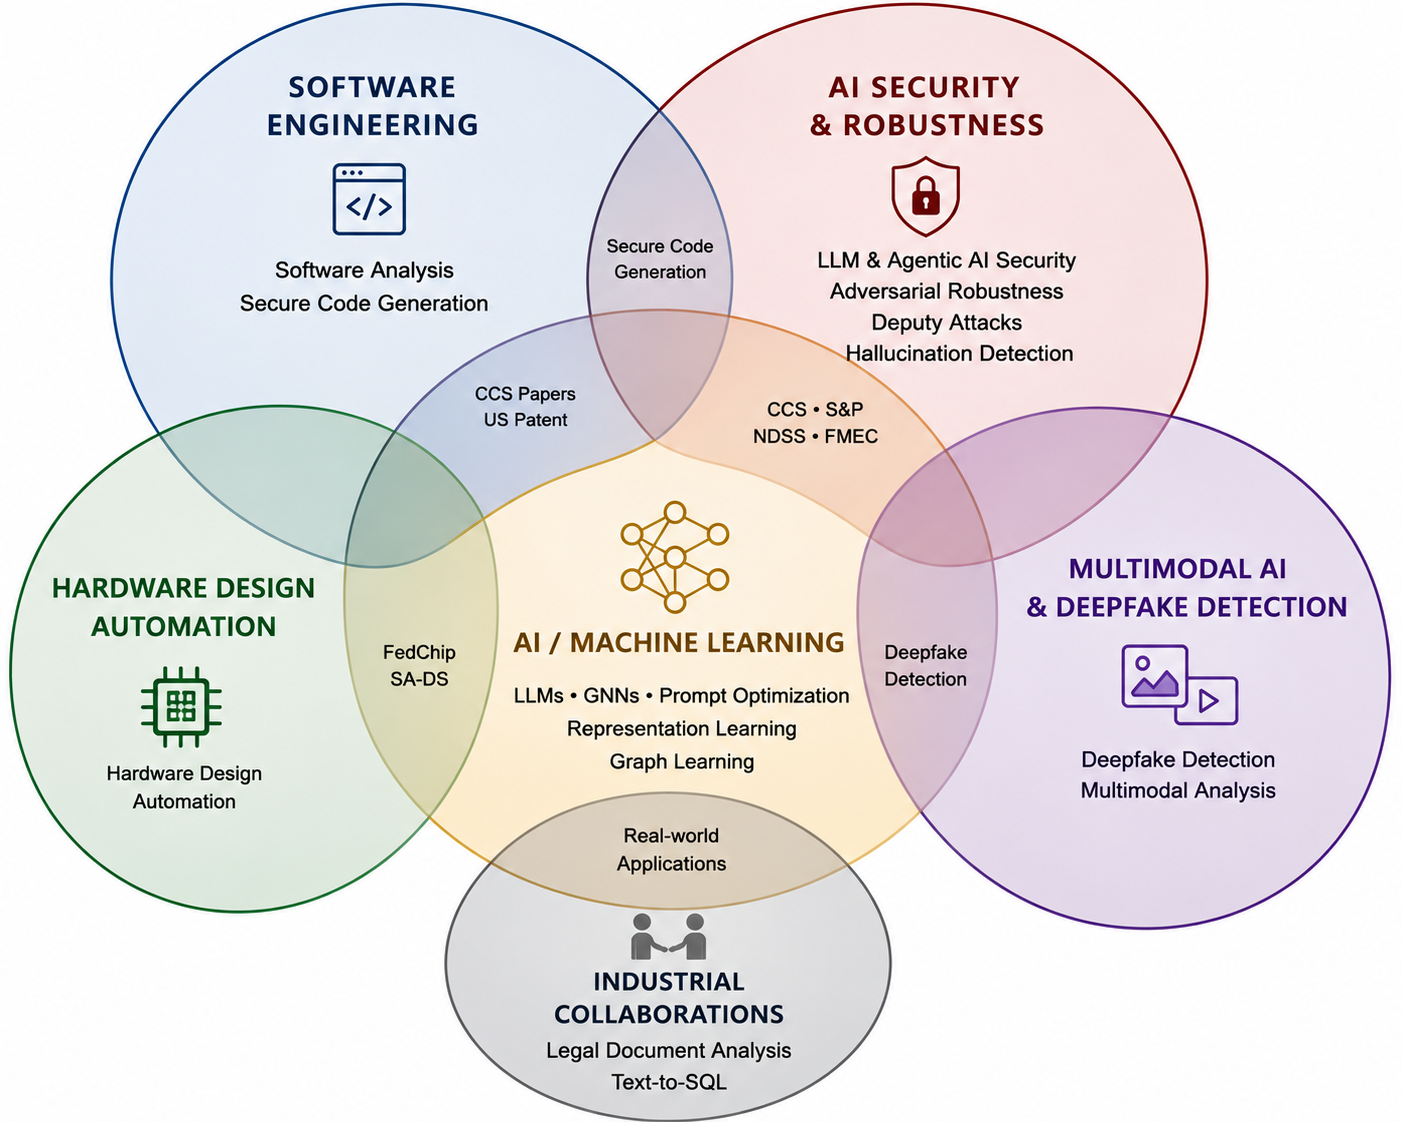
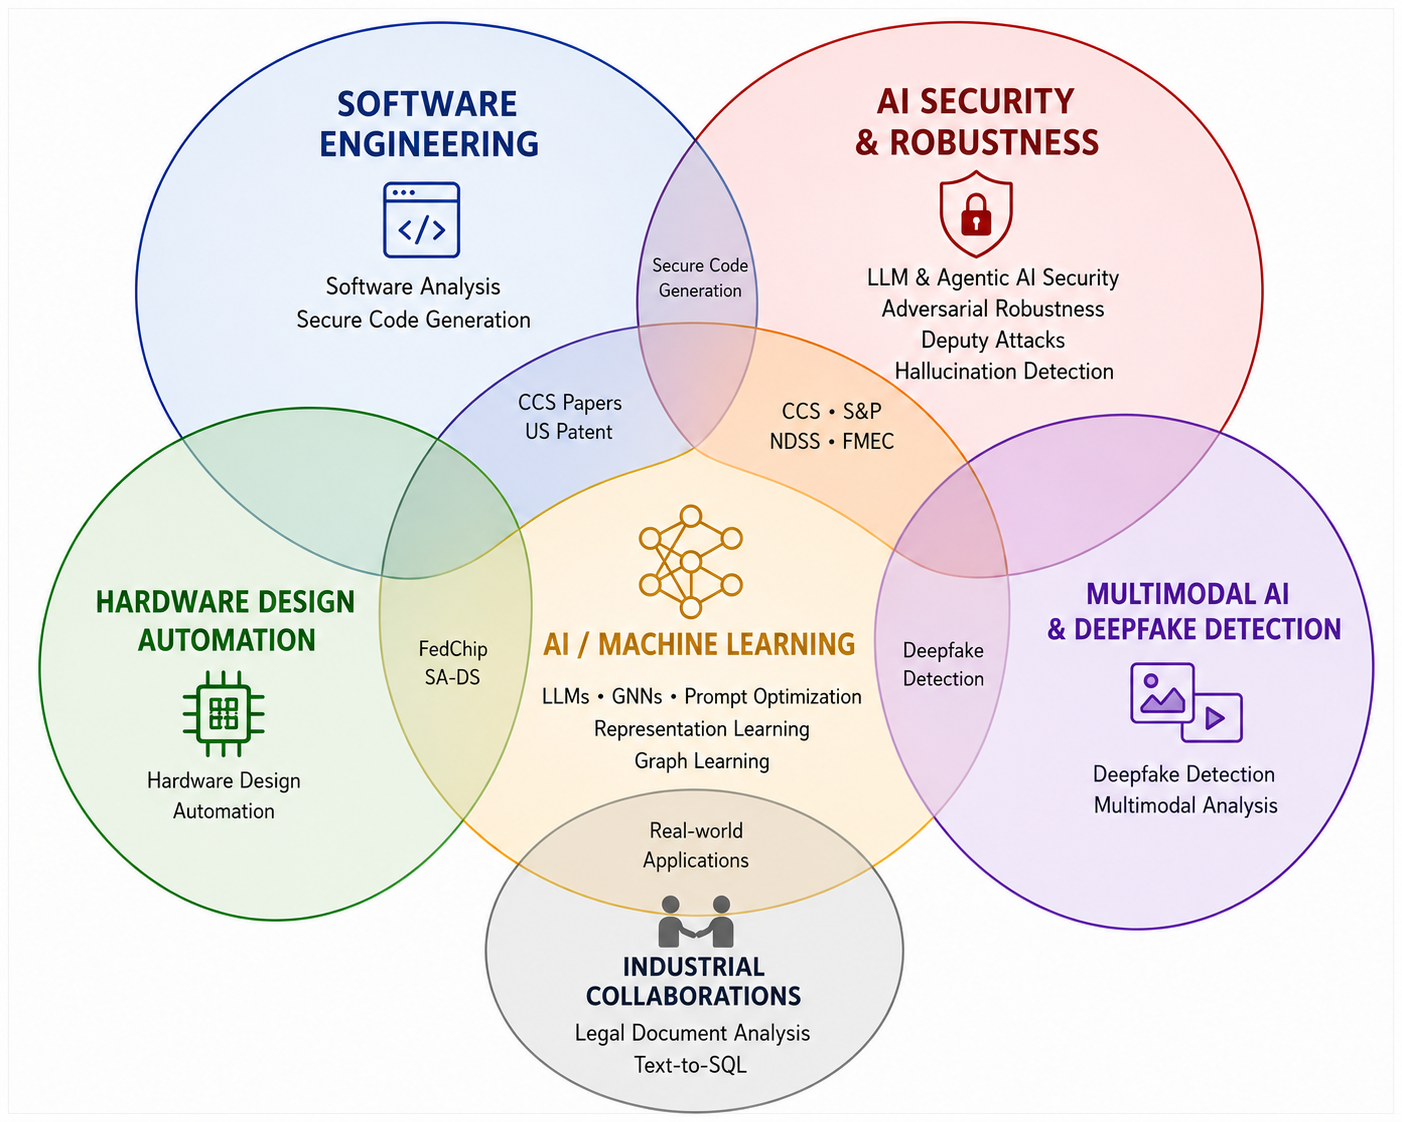
Update

diff --git a/recent_projects.html b/recent_projects.html
@@ -48,44 +48,45 @@
   <p><strong>Research challenge:</strong> LLM-generated code can be functional while still containing security vulnerabilities.</p>
   <p><strong>Approach:</strong> PromSec develops prompt optimization for secure and functional code generation; SGCode demonstrates a flexible prompt-optimizing system built around this research direction.</p>
   <img src="figs/promsec_animation.gif" alt="PromSec secure code generation project figure">
-  <p class="reference">ACM CCS 2024; related WIPO (PCT) patent application WO2025188204A1.</p>
-  <div class="project-links"><a href="https://github.com/mahmoudkanazzal/PromSec" target="_blank" rel="noopener">Artifacts</a><a href="https://sgcode.codes/" target="_blank" rel="noopener">SGCode demo</a></div>
+  <p class="reference"><strong>Associated paper(s):</strong> “PromSec: Prompt Optimization for Secure Generation of Functional Source Code with Large Language Models (LLMs),” ACM CCS 2024; “Demo: SGCode: A Flexible Prompt-Optimizing System for Secure Generation of Code,” ACM CCS 2024.</p>
+  <div class="project-links"><a href="https://doi.org/10.1145/3658644.3690298" target="_blank" rel="noopener">PromSec paper</a><a href="https://doi.org/10.1145/3658644.3691367" target="_blank" rel="noopener">SGCode paper</a><a href="https://github.com/mahmoudkanazzal/PromSec" target="_blank" rel="noopener">PromSec artifacts</a><a href="https://sgcode.codes/" target="_blank" rel="noopener">SGCode demo</a></div>
 </div>
 <div class="project">
   <h2>MintA: Multi-Instance Adversarial Attack on GNN-Based Malicious Domain Detection</h2>
   <p><strong>Research challenge:</strong> Graph-based malicious-domain detectors can be targeted by coordinated changes to multiple attacker-controlled entities.</p>
   <p><strong>Approach:</strong> MintA studies black-box multi-instance evasion against GNN-based malicious-domain detection and evaluates the attack against defenses including outlier detection and graph purification.</p>
   <img src="figs/minta_animation.gif" alt="MintA malicious-domain evasion project figure">
-  <p class="reference">IEEE Symposium on Security and Privacy (S&amp;P) 2024.</p>
-  <div class="project-links"><a href="https://ieeexplore.ieee.org/document/10646677" target="_blank" rel="noopener">Paper</a><a href="https://github.com/mahmoudkanazzal/MintA" target="_blank" rel="noopener">Artifacts</a><a href="https://www.youtube.com/watch?v=ynXtvb8DCAI" target="_blank" rel="noopener">Presentation</a></div>
+  <p class="reference"><strong>Associated paper:</strong> “Multi-Instance Adversarial Attack on GNN-Based Malicious Domain Detection,” IEEE Symposium on Security and Privacy (S&amp;P) 2024.</p>
+  <div class="project-links"><a href="https://doi.org/10.1109/SP54263.2024.00006" target="_blank" rel="noopener">Paper</a><a href="https://github.com/mahmoudkanazzal/MintA" target="_blank" rel="noopener">Artifacts</a><a href="https://www.youtube.com/watch?v=ynXtvb8DCAI" target="_blank" rel="noopener">Presentation</a></div>
 </div>
 <div class="project">
   <h2>ViGText: Deepfake Image Detection with Vision-Language Model Explanations and Graph Neural Networks</h2>
   <p><strong>Research challenge:</strong> Deepfake detection requires methods that can leverage complementary visual and semantic evidence while remaining robust across manipulation types.</p>
   <p><strong>Approach:</strong> ViGText combines vision-language model explanations with graph neural networks for deepfake image detection.</p>
   <img src="figs/vigitext_animation.gif" alt="ViGText deepfake detection project figure">
-  <p class="reference">33rd Network and Distributed System Security Symposium (NDSS 2026), San Diego, CA, Feb. 2026.</p>
-  <div class="project-links"><a href="https://github.com/AhmadALBarqawi/ViGText" target="_blank" rel="noopener">Artifacts</a></div>
+  <p class="reference"><strong>Associated paper:</strong> “ViGText: Deepfake Image Detection with Vision-Language Model Explanations and Graph Neural Networks,” 33rd Network and Distributed System Security Symposium (NDSS 2026).</p>
+  <div class="project-links"><a href="https://www.ndss-symposium.org/wp-content/uploads/2026-s303-paper.pdf" target="_blank" rel="noopener">Paper</a><a href="https://github.com/AhmadALBarqawi/ViGText" target="_blank" rel="noopener">Artifacts</a></div>
 </div>
 <div class="project">
   <h2>FedChip and SA-DS: LLM-Aided AI Accelerator Design</h2>
   <p><strong>Research direction:</strong> Explore LLM-based methods and datasets for artificial-intelligence accelerator design generation.</p>
   <p><strong>Selected outcomes:</strong> FedChip studies federated LLMs for AI accelerator chip design; SA-DS provides a dataset for LLM-driven AI accelerator design generation.</p>
   <img src="figs/sads_figure.png" alt="SA-DS AI accelerator design dataset figure">
-  <p class="reference">ICLAD 2025 (FedChip); IEEE ISCAS 2025 (SA-DS).</p>
-  <div class="project-links"><a href="https://github.com/ACADLab/FedChip" target="_blank" rel="noopener">FedChip artifacts</a><a href="https://github.com/ACADLab/SA-DS" target="_blank" rel="noopener">SA-DS artifacts</a></div>
+  <p class="reference"><strong>Associated paper(s):</strong> “FedChip: Federated LLM for Artificial Intelligence Accelerator Chip Design,” IEEE ICLAD 2025; “SA-DS: A Dataset for Large Language Model-Driven AI Accelerator Design Generation,” IEEE ISCAS 2025.</p>
+  <div class="project-links"><a href="https://doi.org/10.1109/ICLAD65226.2025.00019" target="_blank" rel="noopener">FedChip paper</a><a href="https://github.com/ACADLab/FedChip" target="_blank" rel="noopener">FedChip artifacts</a><a href="https://doi.org/10.1109/ISCAS56072.2025.11044008" target="_blank" rel="noopener">SA-DS paper</a><a href="https://github.com/ACADLab/SA-DS" target="_blank" rel="noopener">SA-DS artifacts</a></div>
 </div>
 <div class="project">
   <h2>STING: Stealthy Backdoor Attack on GNN-Based Malicious Domain Detection</h2>
   <p><strong>Research direction:</strong> Study stealthy backdoor attacks against graph-neural-network-based malicious-domain detection through DNS perturbations.</p>
-  <p class="reference">IEEE Open Journal of the Communications Society, vol. 6, pp. 7823–7841, Sep. 2025.</p>
+  <p class="reference"><strong>Associated paper:</strong> “STING: A Stealthy Backdoor Attack on GNN-Based Malicious Domain Detection via DNS Perturbations,” IEEE Open Journal of the Communications Society, vol. 6, pp. 7823–7841, 2025.</p>
+  <div class="project-links"><a href="https://doi.org/10.1109/OJCOMS.2025.3610784" target="_blank" rel="noopener">Paper</a><a href="https://github.com/mahmoudkanazzal/STING" target="_blank" rel="noopener">Project repository</a></div>
 </div>
 <div class="project">
   <h2>Semi-Decentralized Inference in Heterogeneous GNNs for Traffic Demand Forecasting</h2>
   <p><strong>Research direction:</strong> Edge-computing inference with heterogeneous graph neural networks for traffic demand forecasting.</p>
   <img src="figs/hetgnn_inference.png" alt="Heterogeneous GNN edge inference project figure">
-  <p class="reference">IEEE Transactions on Vehicular Technology, Jan. 2024.</p>
-  <div class="project-links"><a href="https://github.com/mahmoudkanazzal/SemidecentralizedhetGNNLSTM" target="_blank" rel="noopener">Artifacts</a></div>
+  <p class="reference"><strong>Associated paper:</strong> “Semi-Decentralized Inference in Heterogeneous Graph Neural Networks for Traffic Demand Forecasting: An Edge-Computing Approach,” IEEE Transactions on Vehicular Technology, vol. 73, no. 12, pp. 19400–19416, 2024.</p>
+  <div class="project-links"><a href="https://doi.org/10.1109/TVT.2024.3355971" target="_blank" rel="noopener">Paper</a><a href="https://github.com/mahmoudkanazzal/SemidecentralizedhetGNNLSTM" target="_blank" rel="noopener">Artifacts</a></div>
 </div>
 <div class="page-actions">
   <a href="javascript:history.back()"><i class="fas fa-arrow-left"></i> Previous page</a>

diff --git a/index.html b/index.html
@@ -68,10 +68,12 @@
     </section>
 
     <section class="visualization research-image-panel" aria-label="Research overview figure">
+      <h3 class="figure-panel-title">Research Overview</h3>
       <img src="figs/ResearchMap_refined.png" alt="Research map showing current LLM and GNN security and applications, with earlier machine learning for communications work." class="homepage-research-image">
     </section>
 
     <section class="visualization research-image-panel" aria-label="Research areas and contributions figure">
+      <h3 class="figure-panel-title">Area-Wise Contribution Map</h3>
       <img src="areaWiseContributions_refined.png" alt="Overlapping research areas including software engineering, AI security and robustness, machine learning, hardware design automation, predictive modeling, and industrial collaborations." class="homepage-research-image">
     </section>
 
@@ -109,7 +111,7 @@
       <a href="https://scholar.google.com/citations?user=ygjUJnYAAAAJ" target="_blank" rel="noopener"><i class="fas fa-graduation-cap"></i> Google Scholar</a>
       <a href="https://orcid.org/0000-0003-3375-0310" target="_blank" rel="noopener"><i class="fab fa-orcid"></i> ORCID</a>
     </div>
-    <p class="small-note" style="margin-top:13px;">Office: ENGR &amp; COMP SCI BLDG, Old Dominion University, Norfolk, VA 23529, USA. See the ODU faculty directory for current office and telephone details.</p>
+    <p class="small-note" style="margin-top:13px;">Office: ENGR &amp; COMP SCI BLDG, Old Dominion University, Norfolk, VA 23529, USA.</p>
     <div class="page-actions"><a href="#home"><i class="fas fa-arrow-up"></i> Back to top</a></div>
   </section>
 </div>

diff --git a/styles.css b/styles.css
@@ -41,7 +41,7 @@ nav a:hover, nav a.active { color: var(--accent-soft); text-decoration: none; }
 .home-container { max-width: 1200px; margin: 30px auto; padding: 20px; display: flex; gap: 32px; }
 .profile { flex: 0.92; text-align: center; }
 .content { flex: 2.08; min-width: 0; }
-.profile img { width: 155px; height: 155px; border-radius: 50%; object-fit: cover; margin-bottom: 14px; border: 1px solid var(--border-soft); }
+.profile img { width: 172px; height: 172px; border-radius: 50%; object-fit: cover; margin-bottom: 14px; border: 1px solid var(--border-soft); }
 .profile h2 { margin: 8px 0; font-size: 1.48rem; }
 .profile p { margin: 5px 0; color: var(--muted); }
 .profile .role { color: #e2e2e2; }
@@ -164,3 +164,5 @@ hr.soft { border: 0; border-top: 1px solid var(--border-soft); margin: 24px 0; }
   .flag-img { width: 30px; height: 21px; }
   .institution-flag { width: 29px; height: 21px; }
 }
+
+.figure-panel-title { margin: 0 0 12px; padding: 2px 2px 10px; border-bottom: 1px solid var(--border-soft); color: #f0f0f0; font-size: 1.18rem; font-weight: 600; }

diff --git a/about.html b/about.html
@@ -49,6 +49,7 @@
   <ul>
     <li>Program Committee Member — ACM CCS Poster Track, 2026.</li>
     <li>Program Committee Member — ACM CCS Demo Track, 2026.</li>
+    <li>Technical Program Committee Member — IEEE ICTAI, 2026.</li>
     <li>Technical Program Committee Member — IEEE ICTAI, 2025.</li>
     <li>Journal reviewer for venues including IEEE Transactions on Dependable and Secure Computing, ACM Transactions on Software Engineering and Methodology, IEEE Transactions on Reliability, and IEEE Transactions on Networking.</li>
     <li>Committee Member — School of Cybersecurity Hiring Committee, ODU, Spring 2026.</li>
